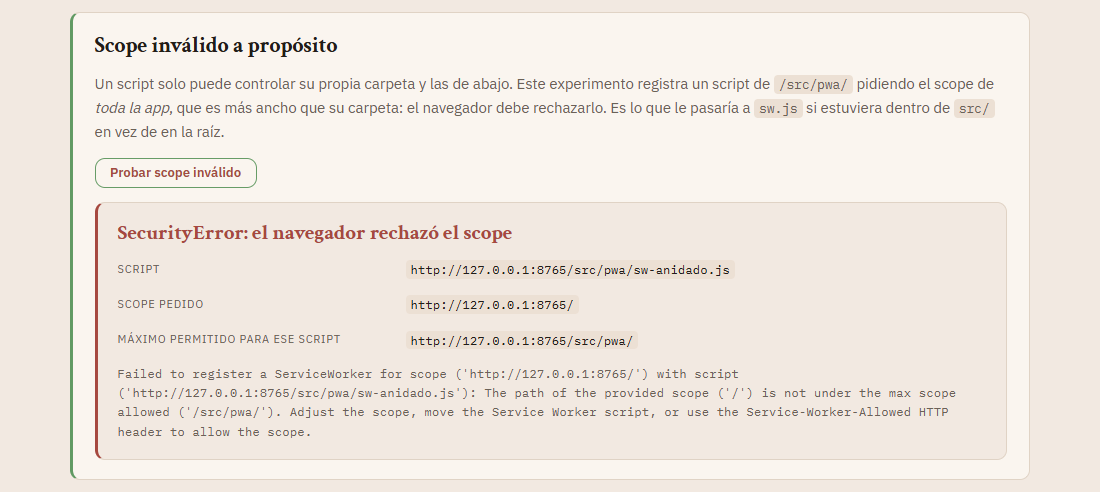
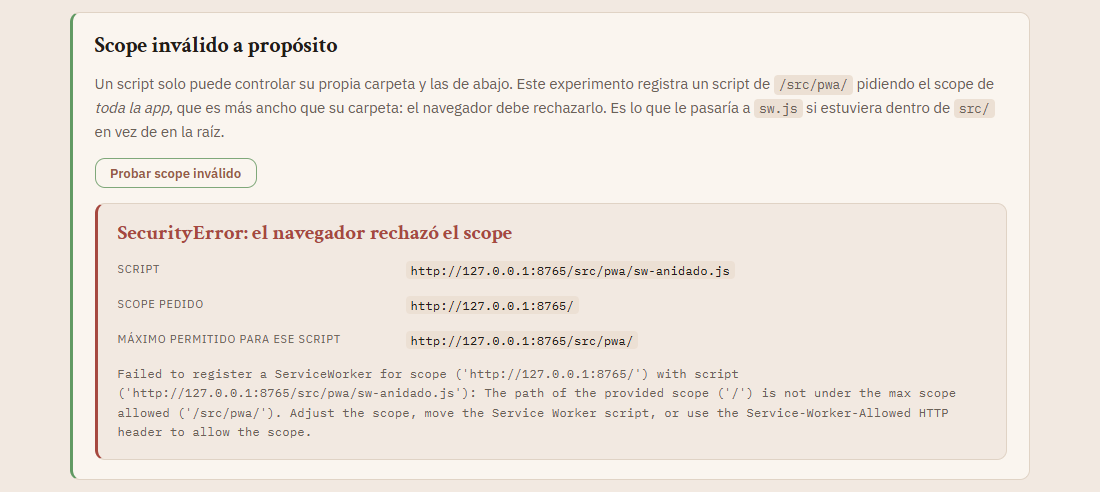
Fix: diagnostico no completo

diff --git a/src/components/ServiceWorkerPanel.js b/src/components/ServiceWorkerPanel.js
@@ -1,7 +1,8 @@
 /**
- * views/ServiceWorkerView.js
+ * components/ServiceWorkerPanel.js
  * -----------------------------------------------------------------------------
- * Ruta "/service-worker" — estado del Service Worker dentro de la propia app.
+ * Panel del Service Worker dentro de la vista /diagnostico
+ * (views/DiagnosticoView.js lo monta debajo de las tarjetas de almacenamiento).
  *
  * Cuatro bloques:
  *   1. Estado          lo que dice el navegador sobre el registro y el control.
@@ -9,9 +10,13 @@
  *   3. Scope inválido  experimento que provoca el error a propósito.
  *   4. Reto            un segundo registro con scope más estrecho.
  *
- * La vista no llama a navigator.serviceWorker.register(): eso vive en
+ * El panel no llama a navigator.serviceWorker.register(): eso vive en
  * pwa/registerSW.js. Tampoco consulta el estado por su cuenta: usa
  * pwa/swDiagnostico.js. Aquí solo se decide qué HTML corresponde a cada dato.
+ *
+ * Es un componente y no una vista: no conoce la ruta, no pinta título de página
+ * y se usa igual que MedidorRango o CultivoCard — se llama para obtener el
+ * marcado y luego se le pide .montar() cuando ya está en el DOM.
  *
  * Todo se repinta desde pintarTodo(), que es lo que ejecuta el botón
  * "Actualizar estado": el estado de un worker cambia solo (instalando ->
@@ -193,34 +198,27 @@ function PanelRegistros(estado) {
   `;
 }
 
-/* ── Vista ────────────────────────────────────────────────────────────────── */
+/* ── Componente ───────────────────────────────────────────────────────────── */
 
-export function ServiceWorkerView() {
+/**
+ * Marcado del panel. Los títulos de bloque son h3 porque el título del grupo
+ * («Service Worker») lo pone quien lo usa, como h2.
+ */
+export function ServiceWorkerPanel() {
   const sinSoporte = soportaSW() ? '' : 'disabled';
 
   return `
-    <section class="portada">
-      <p class="portada__eyebrow">Aplicaciones web progresivas</p>
-      <h1 class="portada__titulo">Service Worker</h1>
-      <p class="portada__texto">
-        Qué sabe el navegador del Service Worker de SoilAir: si está registrado,
-        hasta dónde llega su scope y si ya controla esta página. Los mensajes de
-        <code>sw.js</code> no salen aquí: se ven en la consola del worker, desde
-        DevTools → Application → Service Workers.
-      </p>
-    </section>
-
     <div id="sw-vista" class="sw-vista">
       <section class="sw-seccion" aria-labelledby="sw-t-estado">
         <header class="sw-seccion__cabecera">
-          <h2 id="sw-t-estado" class="sw-seccion__titulo">Estado</h2>
+          <h3 id="sw-t-estado" class="sw-seccion__titulo">Estado</h3>
           <button type="button" class="clima-boton" data-accion="actualizar">Actualizar estado</button>
         </header>
         <div id="sw-estado" aria-live="polite"><p class="cargando">Consultando al navegador…</p></div>
       </section>
 
       <section class="sw-seccion" aria-labelledby="sw-t-scope">
-        <h2 id="sw-t-scope" class="sw-seccion__titulo">Verificador de scope</h2>
+        <h3 id="sw-t-scope" class="sw-seccion__titulo">Verificador de scope</h3>
         <p class="sw-seccion__texto">
           Un worker solo controla las URL cuyo texto <strong>empieza</strong> por su
           scope. La comparación es por prefijo, igual que la hace el navegador.
@@ -229,7 +227,7 @@ export function ServiceWorkerView() {
       </section>
 
       <section class="sw-seccion" aria-labelledby="sw-t-invalido">
-        <h2 id="sw-t-invalido" class="sw-seccion__titulo">Scope inválido a propósito</h2>
+        <h3 id="sw-t-invalido" class="sw-seccion__titulo">Scope inválido a propósito</h3>
         <p class="sw-seccion__texto">
           Un script solo puede controlar su propia carpeta y las de abajo. Este
           experimento registra un script de <code>/src/pwa/</code> pidiendo el scope
@@ -244,7 +242,7 @@ export function ServiceWorkerView() {
       </section>
 
       <section class="sw-seccion" aria-labelledby="sw-t-reto">
-        <h2 id="sw-t-reto" class="sw-seccion__titulo">Reto: dos registros con el mismo sw.js</h2>
+        <h3 id="sw-t-reto" class="sw-seccion__titulo">Reto: dos registros con el mismo sw.js</h3>
         <p class="sw-seccion__texto">
           Registra <code>${escaparHtml(SW_URL)}</code> una segunda vez con un scope más
           estrecho, <code>${escaparHtml(SW_SCOPE_ESTRECHO)}</code>. Cuando varios registros
@@ -260,7 +258,7 @@ export function ServiceWorkerView() {
           </button>
         </div>
         <p id="sw-reto-mensaje" class="sw-mensaje" aria-live="polite"></p>
-        <h3 class="sw-subtitulo">Registros del dominio · getRegistrations()</h3>
+        <h4 class="sw-subtitulo">Registros del dominio · getRegistrations()</h4>
         <div id="sw-registros"></div>
       </section>
     </div>
@@ -268,11 +266,12 @@ export function ServiceWorkerView() {
 }
 
 /**
- * Gancho del router: se ejecuta con el HTML ya montado.
+ * Conecta el panel con el navegador una vez que su HTML ya está en el DOM.
  *
  * @param {{contenedor: HTMLElement, vigente: () => boolean}} contexto
+ *        los mismos dos datos que el router le pasa a cualquier vista
  */
-ServiceWorkerView.montar = async ({ contenedor, vigente }) => {
+ServiceWorkerPanel.montar = async ({ contenedor, vigente }) => {
   const vista = contenedor.querySelector('#sw-vista');
   const estadoCaja = contenedor.querySelector('#sw-estado');
   const verificador = contenedor.querySelector('#sw-verificador');

diff --git a/src/views/DiagnosticoView.js b/src/views/DiagnosticoView.js
@@ -1,12 +1,15 @@
 /**
  * views/DiagnosticoView.js
  * -----------------------------------------------------------------------------
- * Ruta "/diagnostico" — qué guarda SoilAir en el navegador y dónde.
+ * Ruta "/diagnostico" — qué guarda SoilAir en el navegador y cómo está su
+ * Service Worker. Dos grupos:
  *
- * Es la vista de control de la capa de persistencia: enseña el valor REAL que
- * hay ahora mismo en cada uno de los tres mecanismos, si el navegador los
- * permite, cuánto vive cada dato y por qué está ahí y no en otro lado. Cada
- * mecanismo tiene su propio botón para vaciarlo sin tocar los otros dos.
+ *   1. Almacenamiento   el valor REAL que hay ahora mismo en cada uno de los tres
+ *                       mecanismos, si el navegador los permite, cuánto vive cada
+ *                       dato y por qué está ahí y no en otro lado. Cada mecanismo
+ *                       tiene su propio botón para vaciarlo sin tocar los otros dos.
+ *   2. Service Worker   estado, verificador de scope y experimentos. Lo pinta
+ *                       components/ServiceWorkerPanel.js.
  *
  * No lee los almacenes por su cuenta: los tres MECANISMOS de abajo delegan en
  * los mismos servicios que usa el resto de la app, así que lo que aparece en
@@ -25,6 +28,7 @@ import {
 } from '../services/visitasService.js';
 import { getCookie } from '../utils/cookies.js';
 import { escaparHtml } from '../utils/escapar.js';
+import { ServiceWorkerPanel } from '../components/ServiceWorkerPanel.js';
 
 const FECHA = new Intl.DateTimeFormat('es-MX', { dateStyle: 'medium', timeStyle: 'short' });
 
@@ -139,7 +143,7 @@ function Tarjeta(mecanismo) {
   return `
     <article class="diag-tarjeta${activo ? '' : ' diag-tarjeta--inactiva'}">
       <header class="diag-tarjeta__encabezado">
-        <h2 class="diag-tarjeta__titulo">${escaparHtml(mecanismo.titulo)}</h2>
+        <h3 class="diag-tarjeta__titulo">${escaparHtml(mecanismo.titulo)}</h3>
         <span class="diag-tarjeta__estado">${activo ? 'disponible' : 'bloqueado'}</span>
       </header>
 
@@ -169,16 +173,33 @@ function Tarjeta(mecanismo) {
 export function DiagnosticoView() {
   return `
     <section class="portada">
-      <p class="portada__eyebrow">Persistencia en el cliente</p>
-      <h1 class="portada__titulo">Diagnóstico de almacenamiento</h1>
+      <p class="portada__eyebrow">Persistencia y Service Worker</p>
+      <h1 class="portada__titulo">Diagnóstico</h1>
       <p class="portada__texto">
-        Los tres mecanismos que usa SoilAir, con el valor que tienen en este
-        momento. Cada uno se limpia por separado: borrar el tema no toca el
-        filtro, y borrar la cookie no toca ninguno de los dos.
+        Lo que SoilAir guarda en este navegador y el estado de su Service
+        Worker, con los valores que tienen en este momento.
       </p>
     </section>
 
-    <div id="diag-panel" class="diag-rejilla"></div>
+    <section class="diag-grupo" aria-labelledby="diag-g-almacenamiento">
+      <h2 id="diag-g-almacenamiento" class="diag-grupo__titulo">Almacenamiento</h2>
+      <p class="diag-grupo__texto">
+        Los tres mecanismos que usa SoilAir. Cada uno se limpia por separado:
+        borrar el tema no toca el filtro, y borrar la cookie no toca ninguno de
+        los dos.
+      </p>
+      <div id="diag-panel" class="diag-rejilla"></div>
+    </section>
+
+    <section class="diag-grupo" aria-labelledby="diag-g-sw">
+      <h2 id="diag-g-sw" class="diag-grupo__titulo">Service Worker</h2>
+      <p class="diag-grupo__texto">
+        Si está registrado, hasta dónde llega su scope y si ya controla esta
+        página. Los mensajes de <code>sw.js</code> no salen aquí: se ven en la
+        consola del worker, desde DevTools → Application → Service Workers.
+      </p>
+      ${ServiceWorkerPanel()}
+    </section>
   `;
 }
 
@@ -187,9 +208,9 @@ export function DiagnosticoView() {
  * hay que repintarlo en tres momentos distintos: al entrar, al pulsar un botón
  * de limpiar y cuando OTRA pestaña cambia el tema.
  *
- * @param {{contenedor: HTMLElement}} contexto
+ * @param {{contenedor: HTMLElement, vigente: () => boolean}} contexto
  */
-DiagnosticoView.montar = ({ contenedor }) => {
+DiagnosticoView.montar = async ({ contenedor, vigente }) => {
   const panel = contenedor.querySelector('#diag-panel');
   if (!panel) return;
 
@@ -222,7 +243,11 @@ DiagnosticoView.montar = ({ contenedor }) => {
 
   window.addEventListener('storage', alCambiarOtraPestana);
 
+  // Las tarjetas de almacenamiento se pintan primero: son síncronas y no tienen
+  // por qué esperar a que el navegador conteste lo del Service Worker.
   pintar();
+
+  await ServiceWorkerPanel.montar({ contenedor, vigente });
 };
 
 /** Reexportado por si otra vista necesita vaciar una clave suelta. */

diff --git a/src/main.js b/src/main.js
@@ -27,7 +27,6 @@ import { ClimaView } from './views/ClimaView.js';
 import { BitacoraView } from './views/BitacoraView.js';
 import { CultivoDetailView } from './views/CultivoDetailView.js';
 import { DiagnosticoView } from './views/DiagnosticoView.js';
-import { ServiceWorkerView } from './views/ServiceWorkerView.js';
 import { NotFoundView } from './views/NotFoundView.js';
 
 const rutas = [
@@ -35,8 +34,7 @@ const rutas = [
   { path: '/clima', view: ClimaView, titulo: 'Condiciones en campo' },
   { path: '/bitacora', view: BitacoraView, titulo: 'Bitácora de campo' },
   { path: '/acerca', view: AboutView, titulo: 'Acerca' },
-  { path: '/diagnostico', view: DiagnosticoView, titulo: 'Diagnóstico de almacenamiento' },
-  { path: '/service-worker', view: ServiceWorkerView, titulo: 'Service Worker' },
+  { path: '/diagnostico', view: DiagnosticoView, titulo: 'Diagnóstico' },
   { path: '/cultivo/:id', view: CultivoDetailView, titulo: 'Ficha del cultivo' },
 ];
 

diff --git a/styles/shell.css b/styles/shell.css
@@ -1,12 +1,12 @@
 /* ── Encabezado ───────────────────────────────────────────────────────────── */
 
 /*
-  Mobile First. Con seis secciones más el botón de tema ya no cabe todo en
+  Mobile First. Con cinco secciones más el botón de tema ya no cabe todo en
   una línea de 360 px, así que en móvil el encabezado se parte en dos filas
-  (y la segunda se envuelve si el ancho no alcanza):
+  (y la segunda puede envolverse si el ancho no alcanza):
 
       [ SoilAir ................... ☀ Claro ]
-      [ Cultivos  Clima  Bitácora  Acerca  Diagnóstico  Service Worker ]
+      [ Cultivos  Clima  Bitácora  Acerca  Diagnóstico ]
 
   A partir de 620 px vuelve a ser una sola línea, con el botón al final. El
   reparto se hace con `order` y `flex-basis`, no duplicando el marcado.

diff --git a/styles/persistencia.css b/styles/persistencia.css
@@ -109,6 +109,30 @@
 
 /* ── Vista /diagnostico ───────────────────────────────────────────────────── */
 
+/* La vista tiene dos grupos: Almacenamiento y Service Worker (serviceWorker.css). */
+.diag-grupo {
+  margin: 0 0 2.75rem;
+}
+
+.diag-grupo:last-child {
+  margin-bottom: 0;
+}
+
+.diag-grupo__titulo {
+  font-family: var(--display);
+  font-size: 1.75rem;
+  font-weight: 700;
+  line-height: 1.1;
+  margin: 0 0 0.4rem;
+}
+
+.diag-grupo__texto {
+  max-width: 62ch;
+  margin: 0 0 1.25rem;
+  font-size: 0.93rem;
+  color: var(--tinta-suave);
+}
+
 .diag-rejilla {
   display: grid;
   grid-template-columns: 1fr;

diff --git a/sw.js b/sw.js
@@ -12,7 +12,7 @@
  * POR QUÉ ESTÁ EN LA RAÍZ Y NO EN src/
  * El scope máximo de un Service Worker es la carpeta donde vive su script. Un
  * sw.js dentro de src/ solo podría controlar /src/...; en la raíz puede
- * controlar toda la app. Ver el experimento en la vista /service-worker.
+ * controlar toda la app. Ver el experimento en la vista /diagnostico.
  *
  * Los eventos del ciclo de vida y la gestión de peticiones se agregan en los
  * siguientes ejercicios; por ahora este archivo solo escribe en consola.

diff --git a/styles/serviceWorker.css b/styles/serviceWorker.css
@@ -1,5 +1,6 @@
 /* =============================================================================
-   Vista /service-worker · estado, verificador de scope y experimentos
+   Panel del Service Worker en /diagnostico · estado, verificador de scope y
+   experimentos
 
    Mobile First. Sin colores literales: todo sale de las variables de main.css
    para que el tema oscuro funcione solo. Reutiliza .clima-boton (climaView.css).

diff --git a/src/pwa/swDiagnostico.js b/src/pwa/swDiagnostico.js
@@ -4,7 +4,7 @@
  * Lectura del estado del Service Worker y verificador de scope.
  *
  * Aquí no hay HTML: solo se consulta al navegador y se devuelven objetos. La
- * vista (views/ServiceWorkerView.js) se encarga de pintarlos.
+ * panel (components/ServiceWorkerPanel.js) se encarga de pintarlos.
  */
 
 import { BASE_PATH } from '../config.js';

diff --git a/404.html b/404.html
@@ -102,7 +102,6 @@
         <a href="/bitacora" data-link>Bitácora</a>
         <a href="/acerca" data-link>Acerca</a>
         <a href="/diagnostico" data-link>Diagnóstico</a>
-        <a href="/service-worker" data-link>Service Worker</a>
       </nav>
 
       <!--

diff --git a/index.html b/index.html
@@ -91,7 +91,6 @@
         <a href="/bitacora" data-link>Bitácora</a>
         <a href="/acerca" data-link>Acerca</a>
         <a href="/diagnostico" data-link>Diagnóstico</a>
-        <a href="/service-worker" data-link>Service Worker</a>
       </nav>
 
       <!--
